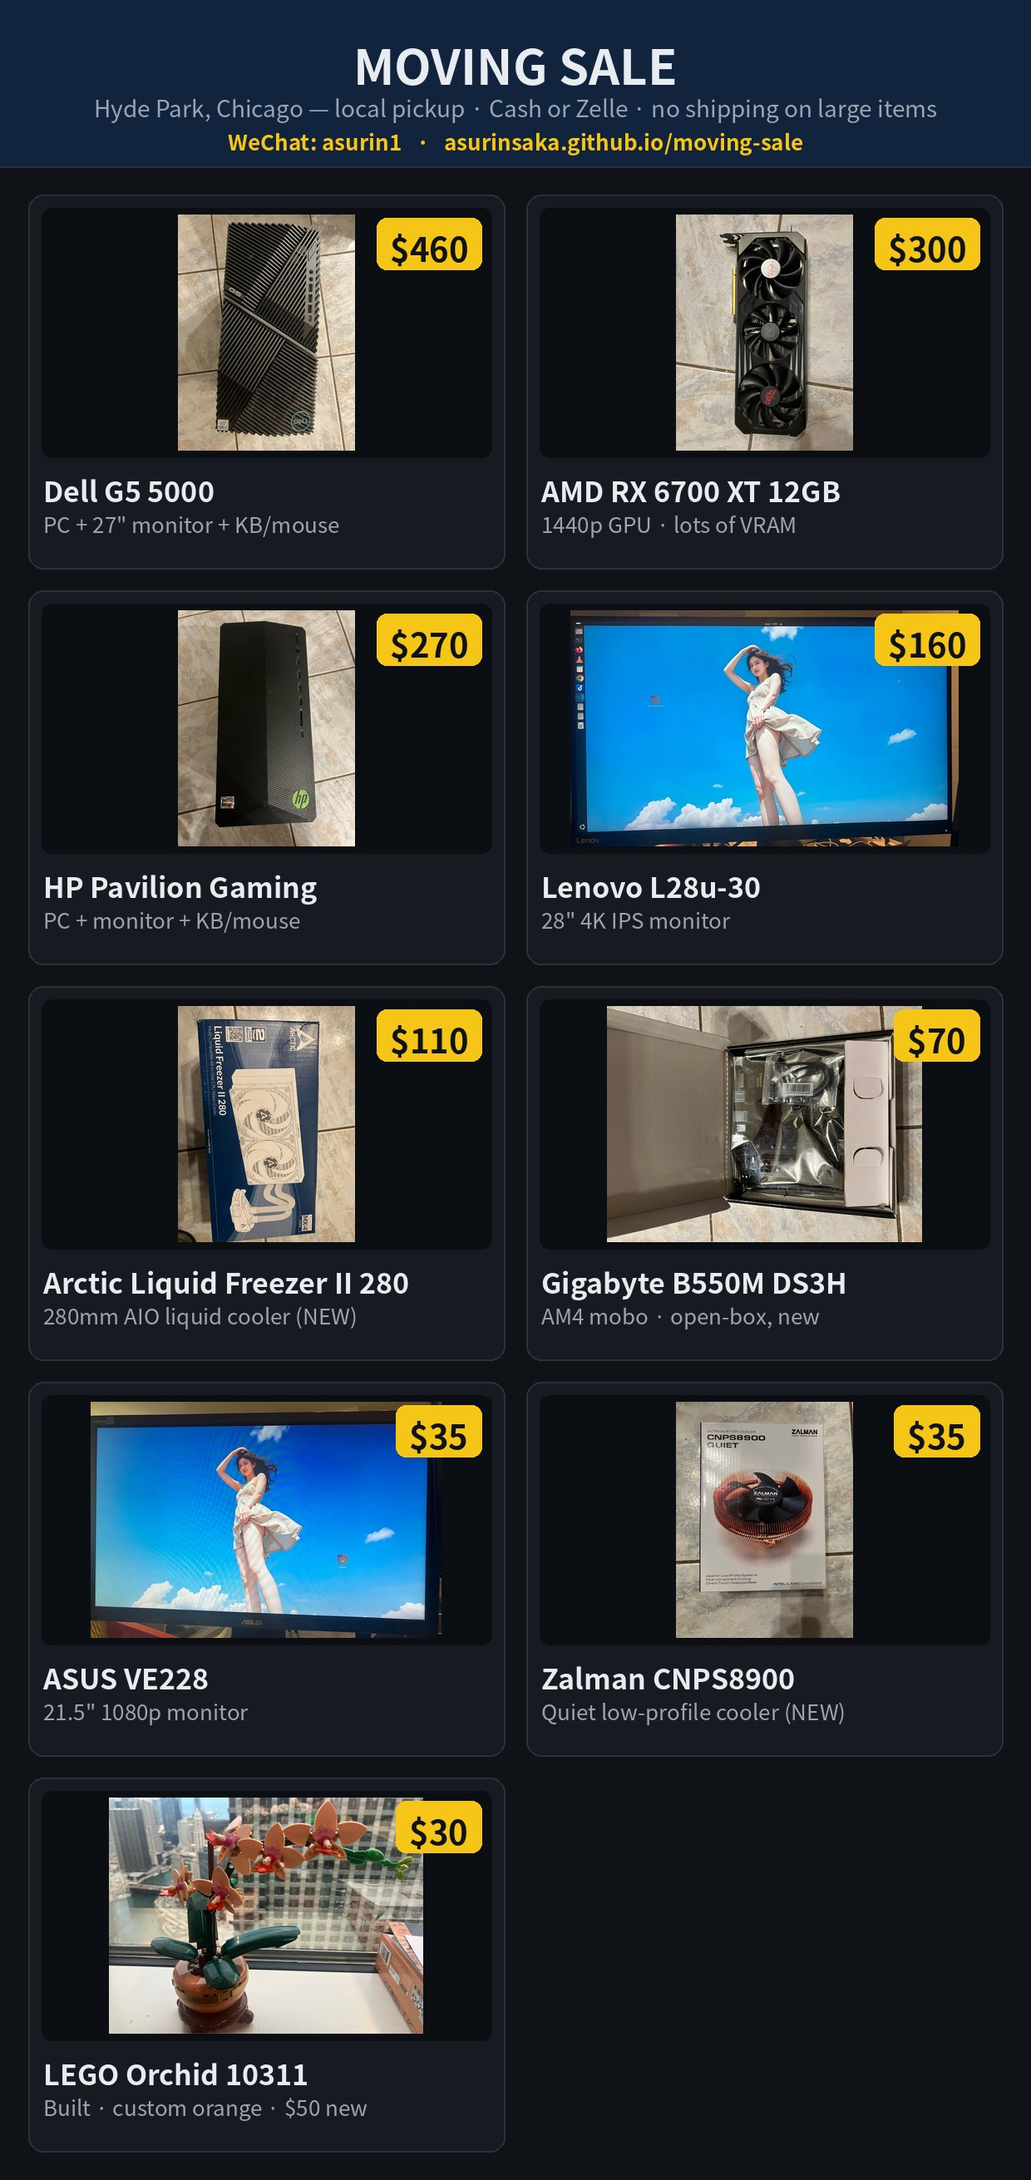
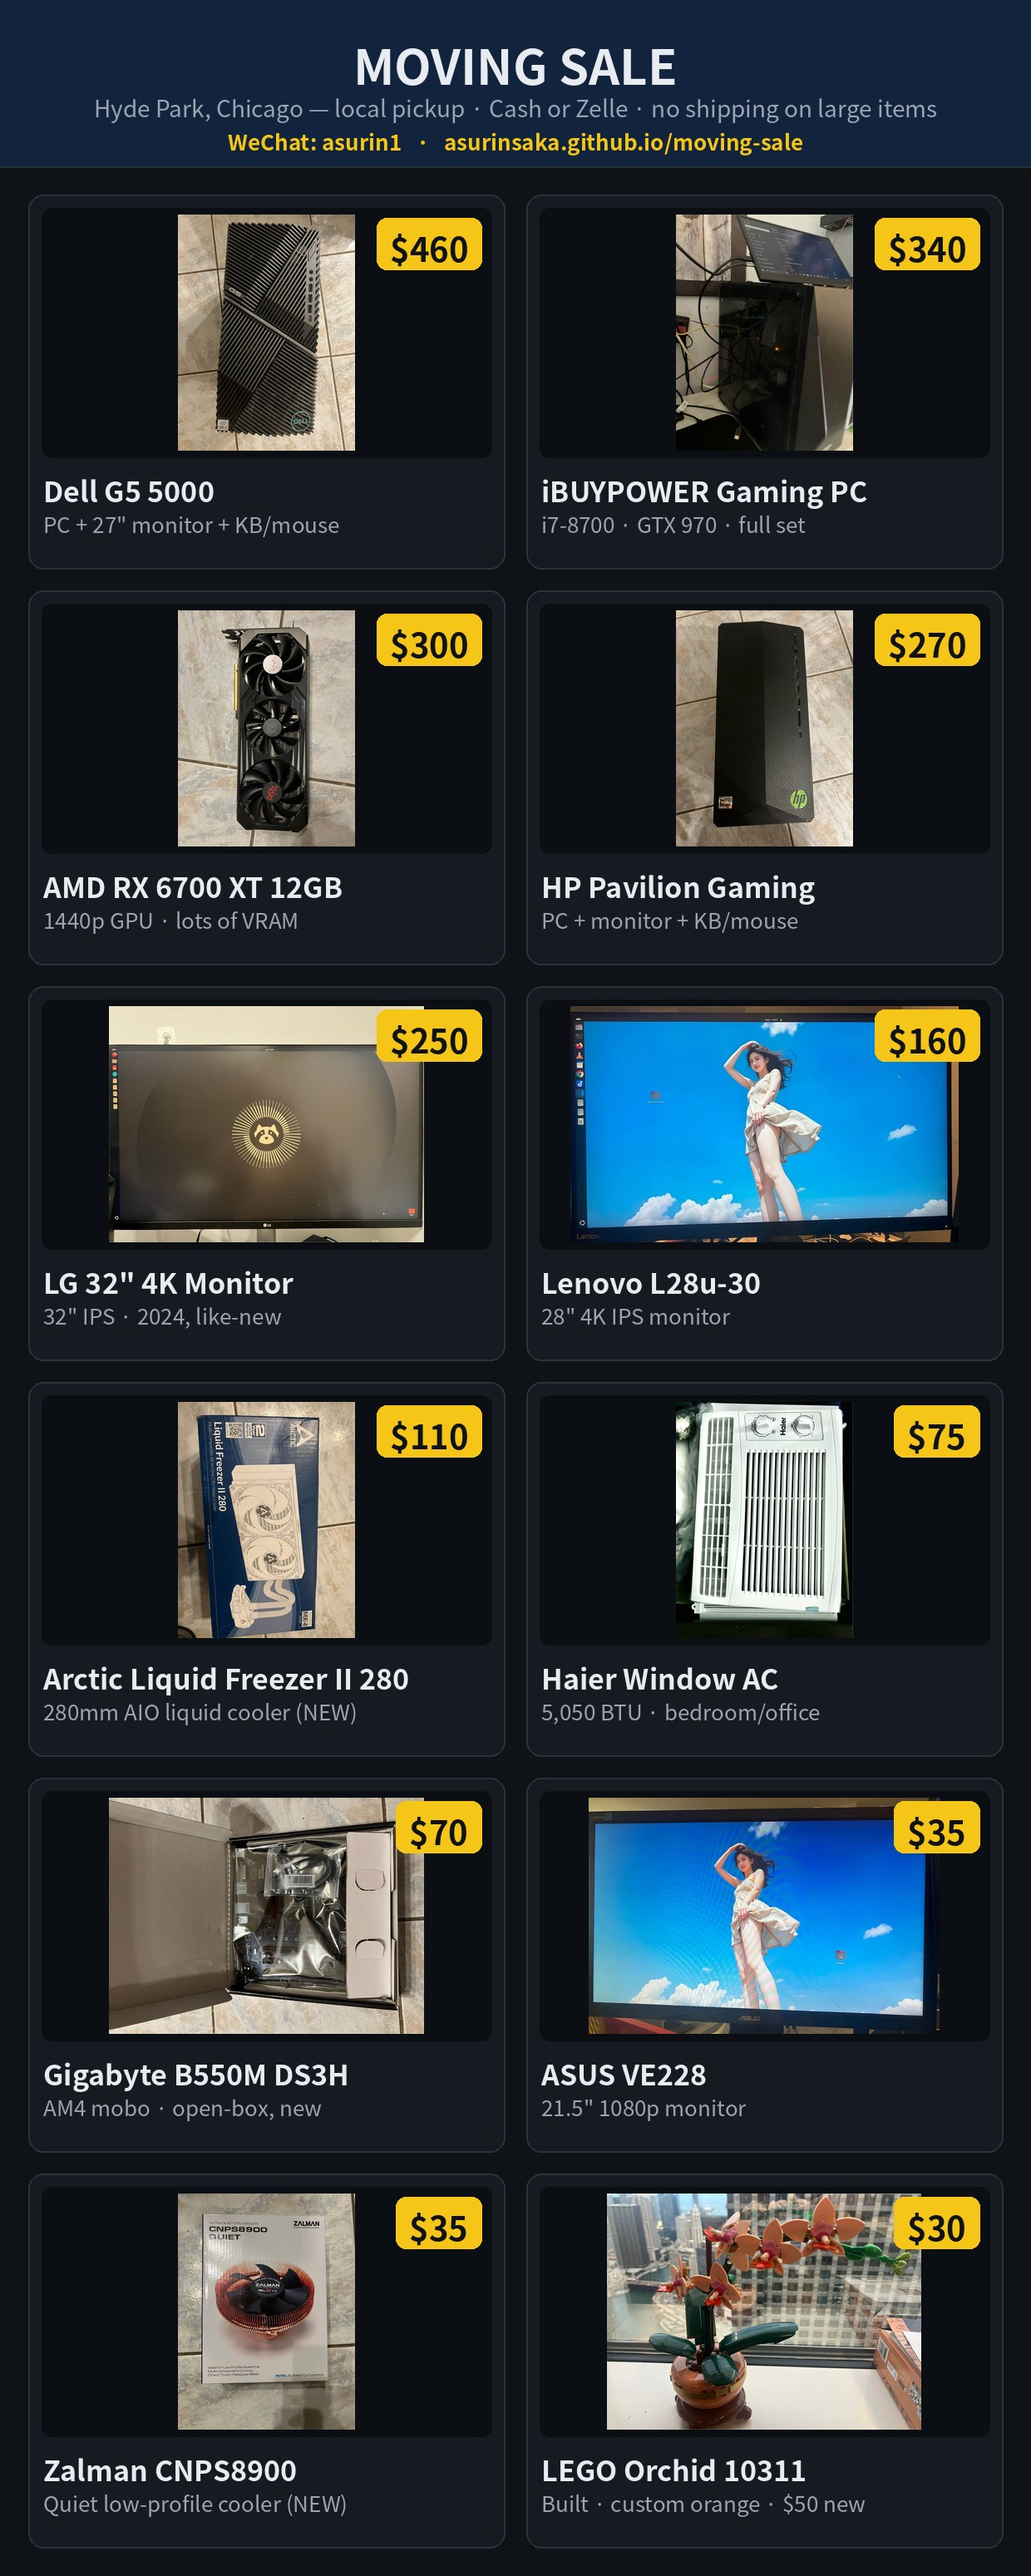
poster: add iBUYPOWER W8700, LG 32" 4K, Haier AC (12 items, 6 rows); wire LG photo on site

diff --git a/electronics/items.js b/electronics/items.js
@@ -34,7 +34,7 @@ window.ITEMS = [
  {id:"lenovo-l28u-30", cat:"mon", zh:"联想 L28u-30 显示器", en:"Lenovo L28u-30 Monitor", price:160, photo:"images/lenovo-l28u.jpg",
   cond:"二手良好 / used, good", specs:["28寸 4K UHD IPS","3840×2160 · HDR10 · AMD FreeSync","2× HDMI + DisplayPort"],
   detail:"28寸4K IPS，色彩准，办公娱乐皆宜，无坏点。28\" 4K IPS, accurate colors, no dead pixels. Local pickup."},
- {id:"lg-4k-hdr", cat:"mon", zh:"LG 32UN650K-W 32寸 4K 显示器", en:"LG 32UN650K-W 32\" 4K Monitor", price:250, photo:"",
+ {id:"lg-4k-hdr", cat:"mon", zh:"LG 32UN650K-W 32寸 4K 显示器", en:"LG 32UN650K-W 32\" 4K Monitor", price:250, photo:"images/lg-4k-hdr.jpg",
   cond:"二手 近新 · 2024年9月产 / used, like-new (mfg 09/2024)", specs:["32寸 4K UHD 3840×2160 IPS · 60Hz","HDR10 · DCI-P3 95% · AMD FreeSync","内置音箱 · 可升降底座 · 含19V电源"],
   detail:"LG 32UN650K-W，32寸(31.5) 4K UHD IPS 显示器，HDR10 + 95% DCI-P3 + AMD FreeSync，内置 MaxxAudio 音箱，可升降三边微边框底座。2024年9月生产，近新成色，含原装 19V 电源适配器。海德公园自取。LG 32UN650K-W — 32\" (31.5) 4K UHD IPS, HDR10, 95% DCI-P3, AMD FreeSync, built-in speakers, height-adjustable borderless stand. Manufactured 09/2024, like-new; includes the original 19V power adapter. Local pickup."},
 
